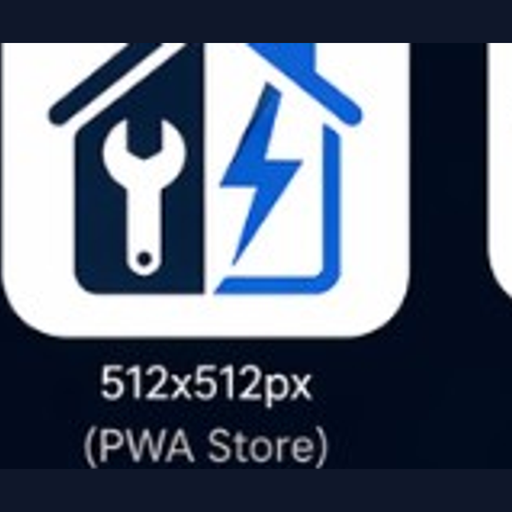
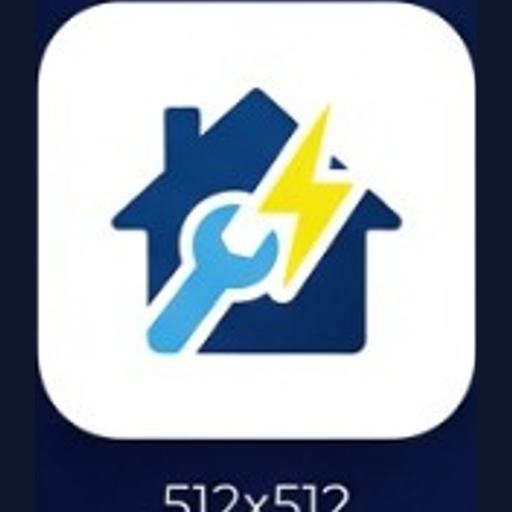
Brand: finalize extracted assets from latest guideline image
Extract complete logo assets from the latest user-provided brand sheet, regenerate all PWA/icon variants from the new symbol, and tighten header spacing to prevent logo/menu overlap.

Made-with: Cursor

diff --git a/components/layout/PublicHeader.tsx b/components/layout/PublicHeader.tsx
@@ -404,7 +404,7 @@ export function PublicHeader() {
         <div className="relative z-[100] mx-auto flex min-h-14 max-w-6xl items-center justify-between px-4 sm:px-6">
         <Link
           href="/"
-          className="inline-flex items-center gap-2.5 font-display text-xl font-bold tracking-tight md:text-2xl"
+          className="inline-flex shrink-0 items-center gap-2 font-display text-lg font-bold tracking-tight lg:text-xl"
           data-testid="header-home"
           {...linkProps}
         >
@@ -422,7 +422,7 @@ export function PublicHeader() {
           </span>
         </Link>
 
-        <nav className="relative z-[100] hidden items-center gap-x-8 md:flex" aria-label="Glavna navigacija">
+        <nav className="relative z-[100] ml-4 hidden items-center gap-x-4 lg:ml-6 lg:gap-x-6 xl:gap-x-8 md:flex" aria-label="Glavna navigacija">
           <Link href="/" className={navLinkDesktop(isPocetnaActive)} data-testid="nav-pocetna" {...linkProps}>
             Početna
           </Link>

diff --git a/public/sw.js b/public/sw.js
@@ -1,7 +1,7 @@
 // BrziMajstor.ME - PWA Service Worker
 // Ikone za push: drži u skladu sa lib/pwa-icon-assets.ts (PWA_ICON_CACHE_VERSION).
-const ICON_192 = "/launcher-icon-192.png?v=20260423-8a2d4a06";
-const CACHE_NAME = "majstor-me-v20260423-8a2d4a06";
+const ICON_192 = "/launcher-icon-192.png?v=20260423-645a7f51";
+const CACHE_NAME = "majstor-me-v20260423-645a7f51";
 const START_URL = "/";
 
 self.addEventListener("install", (event) => {

diff --git a/lib/pwa-icon-assets.ts b/lib/pwa-icon-assets.ts
@@ -3,7 +3,7 @@
  * preglednici i “Dodaj na početni ekran” povuku novu sliku umjesto starog keša.
  * Uskladi i public/sw.js: ICON_192 i po potrebi CACHE_NAME.
  */
-export const PWA_ICON_CACHE_VERSION = "20260423-8a2d4a06";
+export const PWA_ICON_CACHE_VERSION = "20260423-645a7f51";
 
 export function pwaIconSrc(size: 192 | 512): string {
   return `/launcher-icon-${size}.png?v=${PWA_ICON_CACHE_VERSION}`;
